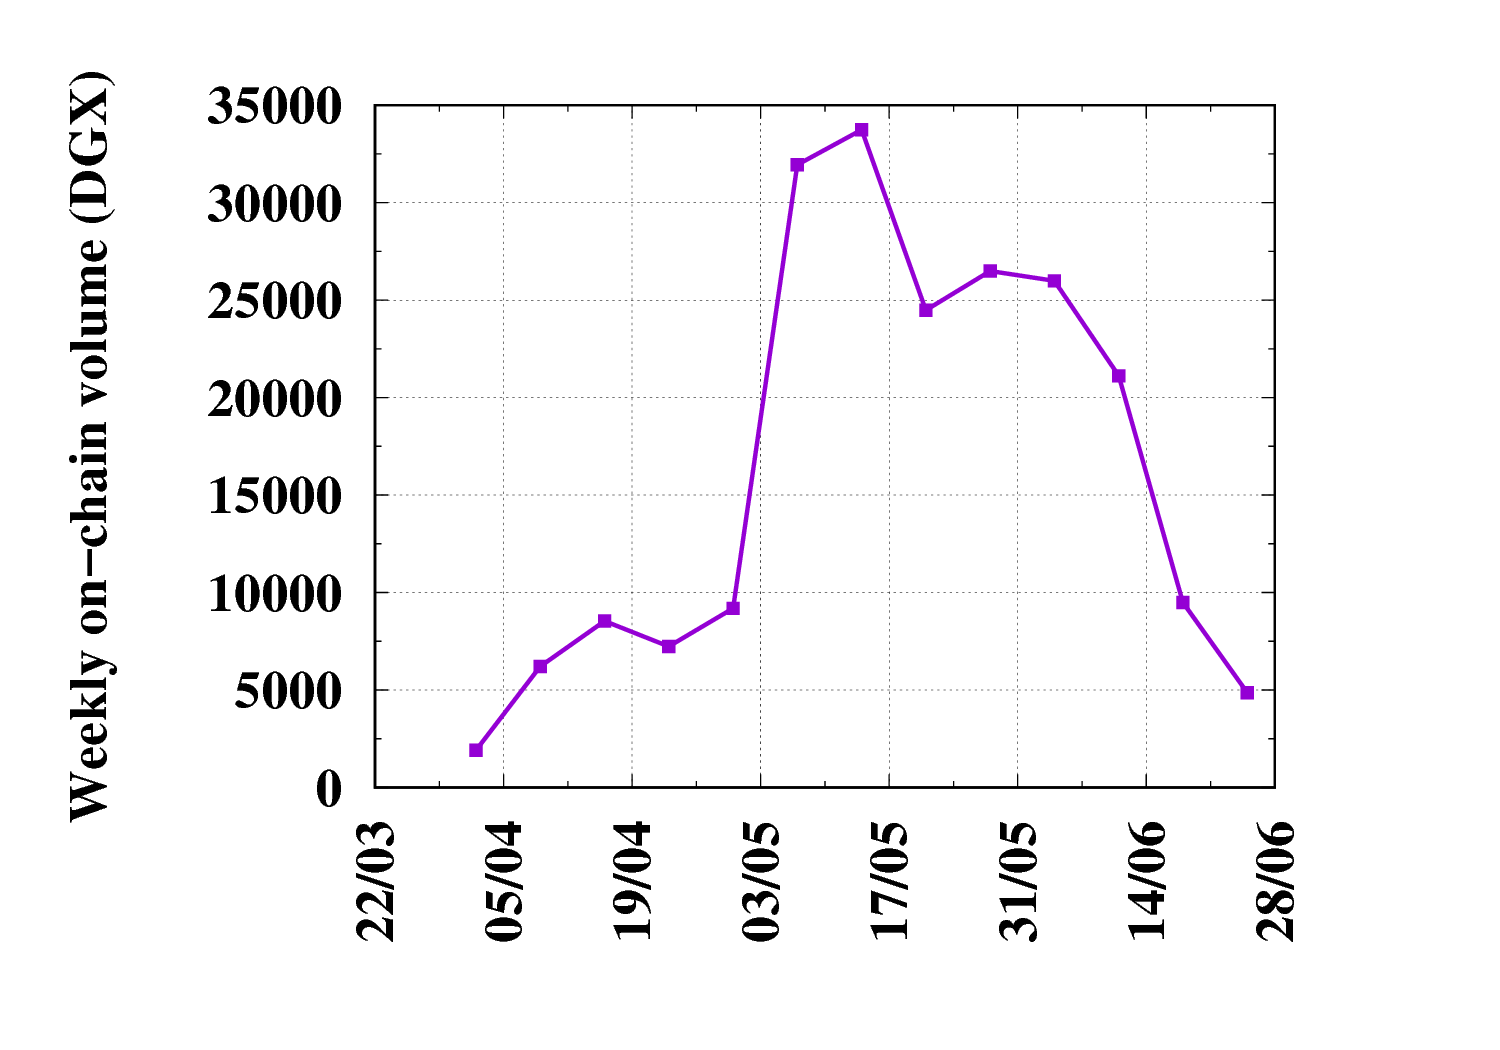
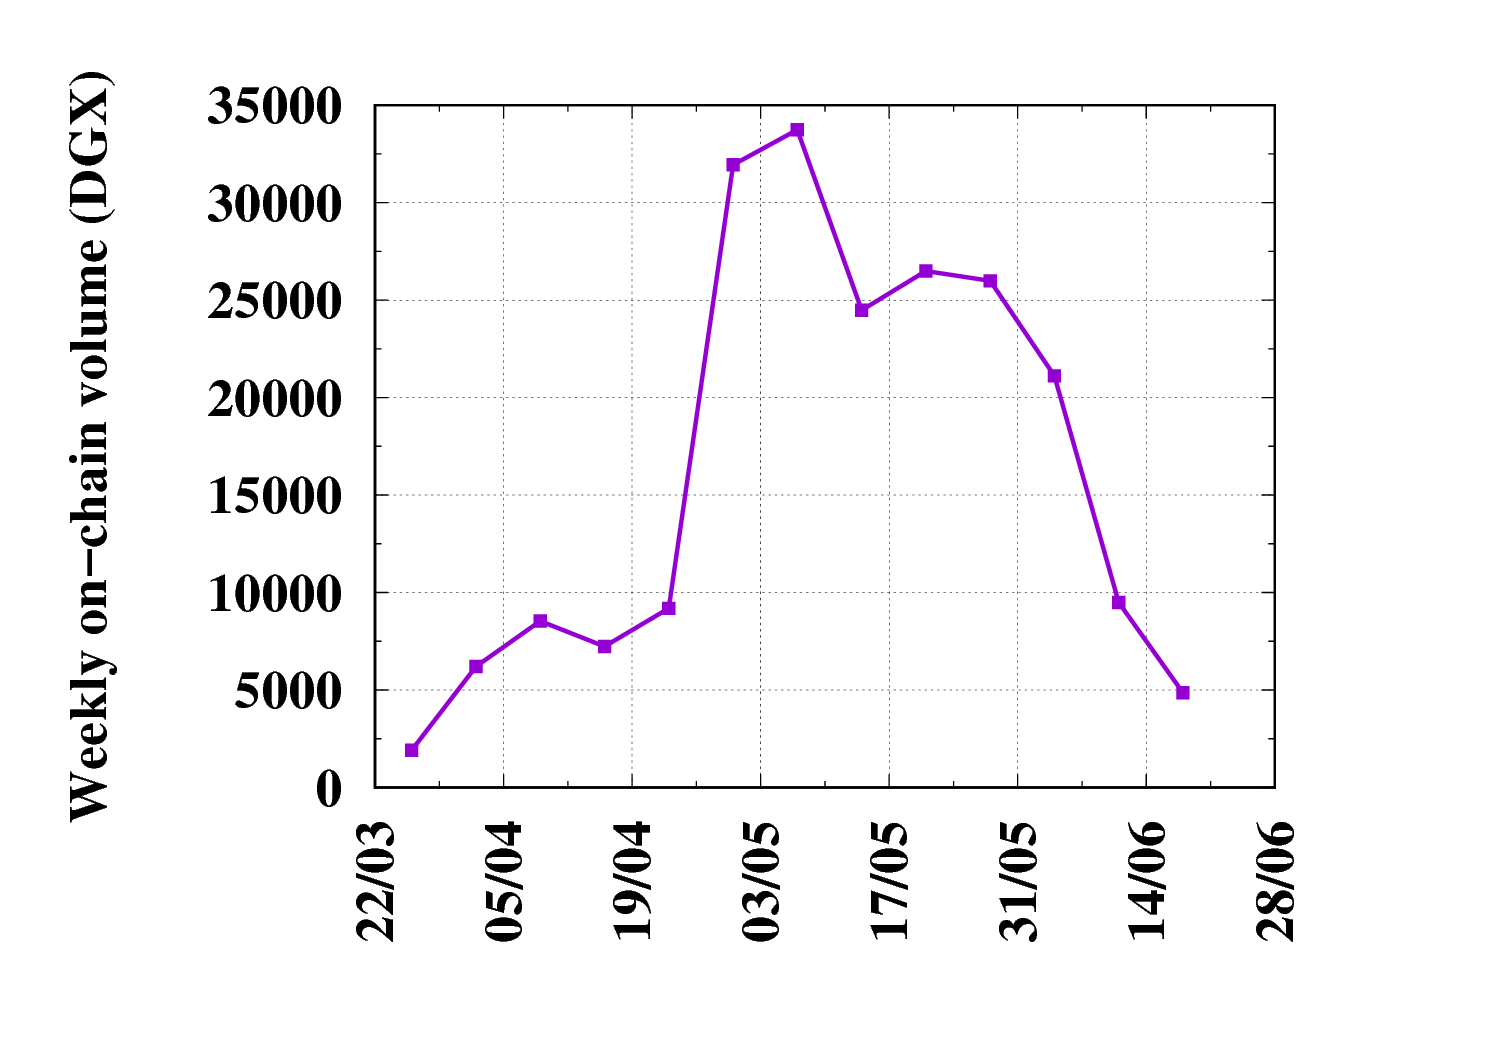
.

diff --git a/dgxvolume_scripts/weekly_volume.py b/dgxvolume_scripts/weekly_volume.py
@@ -14,14 +14,30 @@ amount = data.get("result","None")
 x = 0
 length = len(amount)
 
+# print messages
+print("This page updates hourly using data from the [DGX contract address (etherscan)](https://etherscan.io/token/0x4f3afec4e5a3f2a6a1a411def7d7dfe50ee057bf). Last updated:")
+print(now.strftime("%Y-%m-%d %H:%M") + ' UTC\n')
+
+# Begin weekly table
+print("### Weekly volume table\n")
+print("Week Starting | Volume (DGX)")
+print("--- | ---")
+
 # loop over whole list of txs
 hour = 3600
 day  = 24*hour
 week = 7*day
 quarter = 90*day
 
+# seconds from beginning
+d0 = datetime.datetime(2018, 3, 26, 0, 0)
+delta = now - d0
+ts_now = delta.total_seconds()
+
 wv = 0
 qv = 0
+datew = d0  # 
+dateq = d0  # 
 tv = 0
 t1 = 0
 t2 = 0
@@ -44,14 +60,17 @@ with open('quarterly.dat','w+') as f2:
       if t1 >= week:
         cw += 1 # count
         y = round(float(wv)/1e9,8)
-        f.write(str(cw) + ' ' + str(y) + '\n')  # write week number, volume to file
+        print(str(datew.strftime("%d/%m/%Y")) + "|" + str(y))
+        f.write(str(datew) + ' ' + str(y) + '\n')  # write week number, volume to file
+        datew = datew + datetime.timedelta(days=7)
         tstore1 = tc
         t1 = 0
         wv = 0
       elif t2 >= quarter:
         cq += 1 # count
         y = round(float(qv)/1e9,8)
-        f2.write(str(cq) + ' ' + str(y) + '\n')  # write week number, volume to file
+        f2.write(str(dateq) + ' ' + str(y) + '\n')  # write week number, volume to file
+        dateq = dateq + datetime.timedelta(days=90)
         tstore2 = tc
         t2 = 0
         qv = 0
@@ -61,43 +80,16 @@ wv = round(float(wv)/1e9,8)
 qv = round(float(qv)/1e9,8)
 tv = round(float(tv)/1e9,8)
 
-# seconds from beginning
-d0 = datetime.datetime(2018, 3, 26, 0, 0)
-delta = now - d0
-ts_now = delta.total_seconds()
-
-# weekly datetime list to file
-datew = d0  # 
-with open('weekly_datetimes.dat','w+') as f:
-  for i in range(0,cw):
-    datew = datew + datetime.timedelta(days=7)
-    f.write(str(datew) + '\n')  # skip the 0th week
-
-# quarterly datetime list to file
-dateq = d0  # 
-with open('quarterly_datetimes.dat','w+') as f:
-  for i in range(0,cq):
-    dateq = dateq + datetime.timedelta(days=90)
-    f.write(str(dateq) + '\n')  # skip the 0th week
-
-# print messages
-print("This page updates hourly using data from the [DGX contract address (etherscan)](https://etherscan.io/token/0x4f3afec4e5a3f2a6a1a411def7d7dfe50ee057bf). Last updated:")
-print(now.strftime("%Y-%m-%d %H:%M") + ' UTC\n')
-
-print("### Volume table\n")
-print("| | Starting Date | Volume (DGX) ")
-print("--- | --- | ---")
-print("Current Week |"    + str(datew.strftime("%d/%m/%Y")) + "|" + str(wv))
-print("Current Quarter |" + str(dateq.strftime("%d/%m/%Y")) + "|" + str(qv) )
-print("All-Time |"        + str(d0.strftime("%d/%m/%Y"))    + "|" + str(tv) + "\n")
+# All-time volume table
+#print("Current Quarter |" + str(dateq.strftime("%d/%m/%Y")) + "|" + str(qv) )
+print("\n")
+print("### All-time volume\n")
+print("Date | Volume (DGX)")
+print("--- | ---")
+print(str(d0.strftime("%d/%m/%Y"))    + "|" + str(tv) + "\n")
 
 totalsupply = dgxtotalsupply()
 msg = "DGX total supply: " + totalsupply
 print(msg)
 
-##msg = "DGX 24hr on-chain volume (last " + str(n) + ' transactions) = ' + str(volume24) + ' (' + str(pcoftotal) + '% of total)'
-##print(msg + '\n')
-
-##msg = "DGX total supply (etherscan) = " + str(totalsupply) 
-##print(msg)
 
